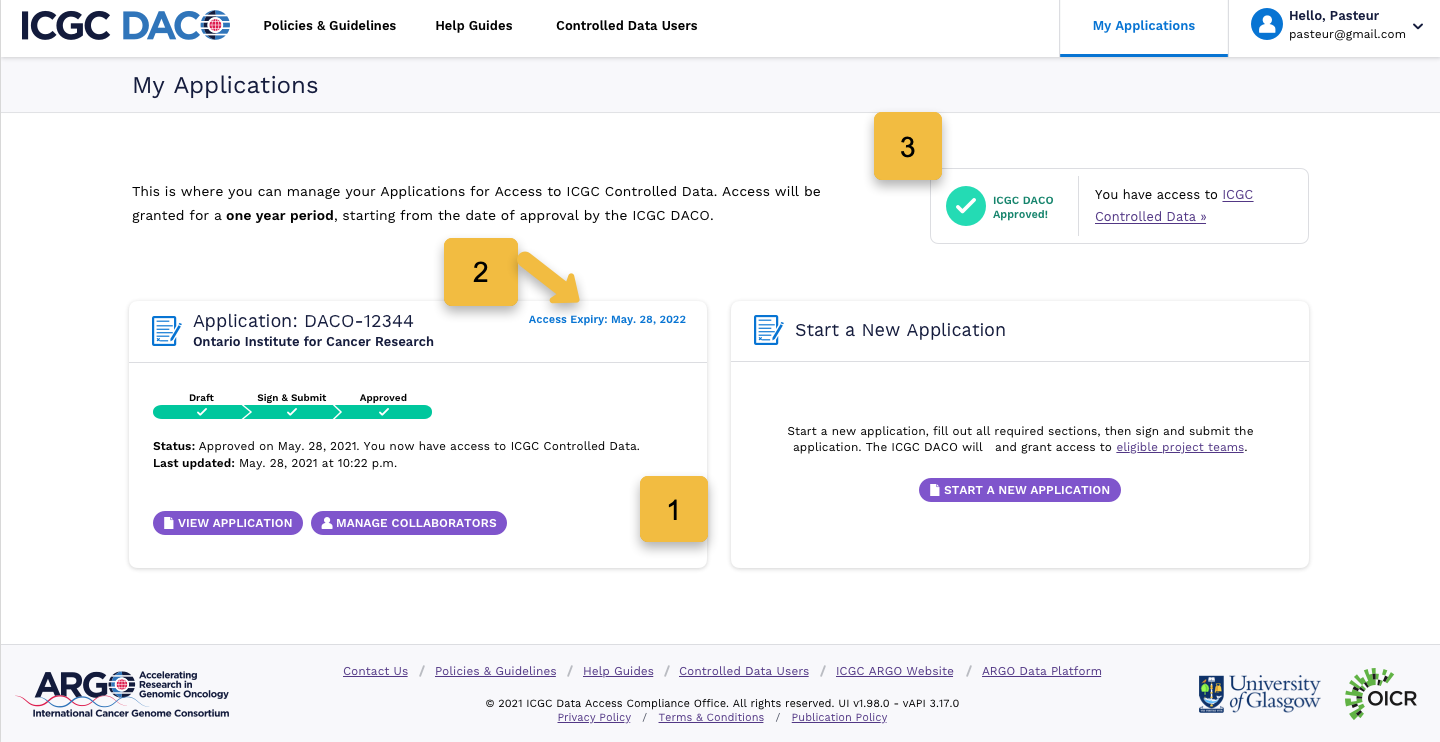
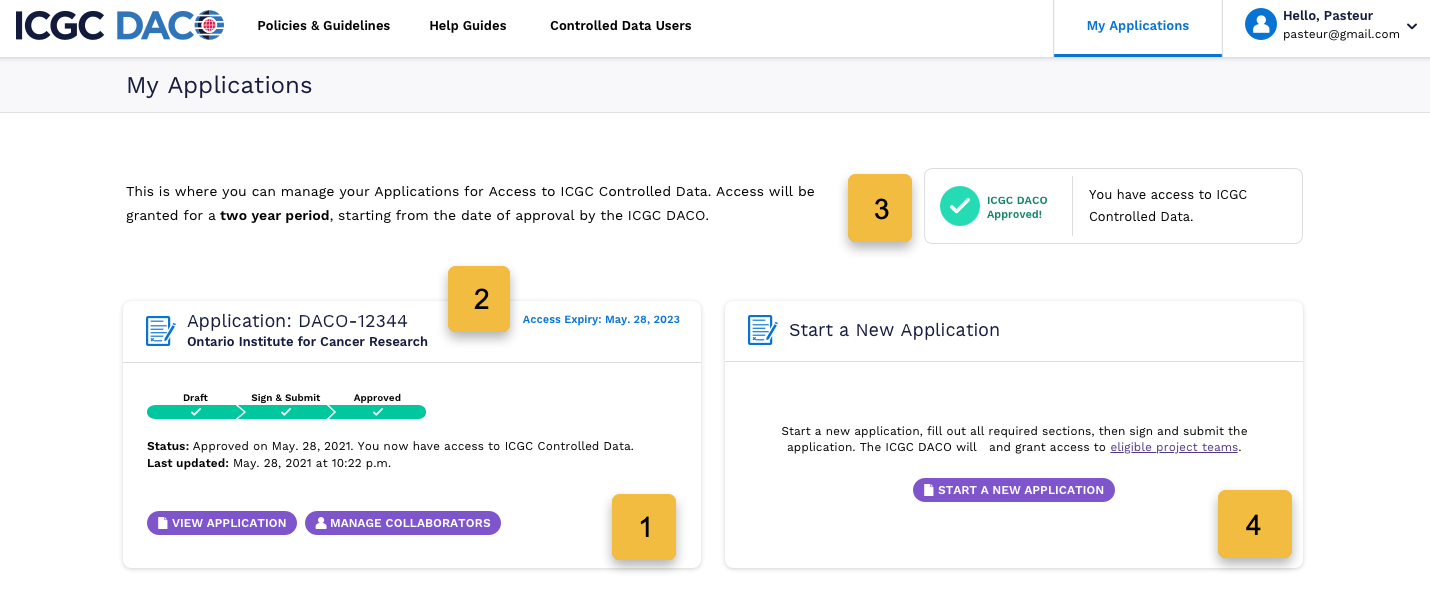
daco-updates-sept10
- wording and screenshot revisions
- added a new page for renewing and closing
- split up the app progress stage table across the multiple pages

diff --git a/website/sidebars.js b/website/sidebars.js
@@ -49,6 +49,7 @@ module.exports = {
           items: [
             'data-access/daco/applying',
             'data-access/daco/approval',
+            'data-access/daco/renew-close',
             'data-access/daco/daco-faq',
           ],
         },

diff --git a/docs/data-access/daco/applying.md b/docs/data-access/daco/applying.md
@@ -10,7 +10,9 @@ The International Cancer Genome Consortium has tiered levels of access to donor 
 
 
 ### Eligible Project Guidelines
-While there is great potential of data sharing for scientific research, caution is required when sharing data about individuals participating in genomic research because genomic data, like other types of medical data, can contain personal and identifying information. Some specific criteria that the ICGC DACO will look for are as follows:
+While there is great potential of data sharing for scientific research, caution is required when sharing data about individuals participating in genomic research because genomic data, like other types of medical data, can contain personal and identifying information.
+
+ICGC DACO provides controlled access to public and private researchers (PIs) that apply for access and the access conditions are the same for both types of researchers.  The application must be completed and submitted through the [online submission system](https://daco.icgc-argo.org). The qualification requirements for applicants are: 
 
 1. **The Applicant** must be an independent researcher affiliated with a legal entity (e.g. university professor, researcher in a private company, independent researchers able to apply for federal research grants, etc.), and they **must review and sign the finalized application**.
 1. A qualified **Institutional Representative** of a legal entity has the administrative power to legally commit that entity to the terms and conditions of the Data Access Agreement (e.g. Vice-President Research, a Research Director, or a Contracts Officer for the entity), and **must review and sign the finalized application**.
@@ -46,19 +48,17 @@ The following are a list of the users involved in an application and their requi
 1. Complete the entire application form, including all required fields.
 ![DACO blank application](/assets/data-access/daco-application.png)
 1. You will notice the application form automatically saves as you fill it in. In the table of contents, icons will indicate which sections haven’t been started (blank), are complete ![DACO icon showing section complete](/assets/data-access/daco-toc-complete.png) or are incomplete ![DACO icon showing section incomplete](/assets/data-access/daco-toc-errors.png).
-1. Above the application form basic information about the application is displayed. This is also where you can access actions, such as downloading a pdf, and a progress bar that indicates what stage your application is in. This progress indicator is also displayed on the dashboard card for each application you have started. [Read more about the progress stages below](/docs/data-access/daco/applying#application-progress-stages).
+1. Above the application form basic information about the application is displayed. This is also where you can access actions, such as downloading a pdf, and a progress bar that indicates what stage your application is in. This progress indicator is also displayed on the dashboard card for each application you have started. [Read more about some of the progress stages below](/docs/data-access/daco/applying#application-progress-stages).
 1. You must have all required sections completed in order to access the final `Sign & Submit` section. 
-1. Once your application form is finalized and signed by both the Applicant (Principal Investigator) and Institutional Representative, you can upload the signed application PDF in the `Sign & Submit` section and click the **Submit Application** button. [Read more about signing and submitting your application below](/docs/data-access/daco/applying#signing-and-submitting-the-application).
+1. Once your application form is finalized and signed by both the Applicant (Principal Investigator) and Institutional Representative, you can upload the signed application pdf in the `Sign & Submit` section and click the **Submit Application** button. [Read more about signing and submitting your application below](/docs/data-access/daco/applying#signing-and-submitting-the-application).
 
-### Application Progress Stages
+### Application Progress Stages when Applying
 
 | Application Stage | Description | Application pdf | 
 | ----------------------- | --------------------------- | --------------------- | 
 | **Draft** | The application is in progress and is incomplete. <br /><br /> ![DACO application in Draft state](/assets/data-access/daco-draft.png)| You can download a **Draft pdf** that will display a watermark if you wish to use it to collaborate with others.<br /><br /> ![Download button for draft pdf](/assets/data-access/download-draft.png) |  
 | **Sign & Submit** | All required sections are completed and the application is ready to be signed by the Principal Investigator and Institutional Representative. <br /><br /> ![DACO application in Sign and Submit state](/assets/data-access/daco-signsubmit.png)| You can now download the **Finalized pdf** from the top button to collect the proper signatures.<br /><br /> ![Download button for finalized pdf](/assets/data-access/download-finalized.png)| 
 | **DACO Review** | Once you upload the signed application and click **Submit Application**, the application will be locked and it will be sent to the ICGC DACO for review. <br /><br /> ![DACO application in DACO Review state](/assets/data-access/daco-review.png) | You can download the signed and submitted pdf using the **Signed pdf** top button. <br /><br />![Download button for signed pdf](/assets/data-access/download-signed.png)| 
-| **Revisions Requested** | If the ICGC DACO office requires revisions to your application before approval, you will receive an email with the details of what to revise and those sections of your application will be unlocked for editing. [Read more](/docs/data-access/daco/approval#requested-revisions).  <br /><br /> ![DACO application in Revisions Requested state](/assets/data-access/daco-revisions-requested.png)| You can download a **Draft pdf** that will display a watermark if you wish to use it to collaborate with others. <br /><br /> ![Download button for draft pdf](/assets/data-access/download-draft.png)| 
-| **Approved** | If the ICGC DACO approves your application, it will be viewable and some sections will remain editable. [Read more](/docs/data-access/daco/approval#approval-for-controlled-data-access).  <br /><br /> ![DACO application in Approved state](/assets/data-access/daco-approved.png)| You will be emailed the ICGC DACO approved copy of the application. <br /><br />  ![Download button for signed pdf](/assets/data-access/download-signed.png)| 
 
 
 ### Applicant Dashboard
@@ -69,6 +69,7 @@ When applications are in progress, the Applicant dashboard will show the followi
 1. A card will show up on your dashboard tracking each application you have opened, what stage they are in, and provides quick links for editing. 
 1. Once an application is approved, the card will show the access expiry date and will eventually alert you when it’s almost time for renewal. 
 1. A smaller card in the top right of the dashboard will indicate if the logged in user has been approved for access to ICGC Controlled Data.  
+1. You will always be able to start a new application, in case you are managing multiple projects.
 
 
 The following outlines a bit more information about some specific application sections:
@@ -92,12 +93,12 @@ If your country/region requires an ethics approval, it is required that you prov
 
 If the ethics approval is written in a language other than English, please upload a translated version.
 
-> Please note: The DACO and the ICGC are not responsible for the ethics approval/monitoring of individual research projects and bear no responsibility for the Applicant's failure to comply with local/national ethical requirements.
+> **Please note:** The DACO and the ICGC are not responsible for the ethics approval/monitoring of individual research projects and bear no responsibility for the Applicant's failure to comply with local/national ethical requirements.
 
 ## Signing and Submitting the Application
 The last section of the application, `Sign & Submit`, will be disabled if any section of the application is incomplete. 
 
-When this section is enabled, the final step involves adding the proper signatures to authorize the application. Please do the following:
+When the application is complete, this section is enabled and the final step involves adding the proper signatures to authorize the application. Please do the following:
 1. Download the finalized application from the top application header, or using the button within the section content. 
 1. On the last page of the application pdf you will find a signatures page. You must include **BOTH the Principal Investigator and the Institutional Representative signatures** or your application will be declined.
    * You can print the final signature page, collect the written signatures, scan the signed page and add it back to the finalized application pdf.

diff --git a/docs/data-access/daco/approval.md b/docs/data-access/daco/approval.md
@@ -1,6 +1,6 @@
 ---
 id: approval
-title: ICGC DACO Approval Process
+title: DACO Approval Process
 sidebar_label: Approval Process
 platform_key: DOCS_APPROVAL
 ---
@@ -12,12 +12,20 @@ Once submitted to the ICGC DACO, you will be **notified within 10 business days*
 
 ![DACO Review Process with possible outcomes](/assets/data-access/daco-approval-diagram.png)
 
+### Application Progress Stages after DACO Review
+
+| Application Stage | Description | Application pdf | 
+| ----------------------- | --------------------------- | --------------------- | 
+| **Revisions Requested** | If the ICGC DACO office requires revisions to your application before approval, the revision details will be sent via email, and specific sections of your application will be unlocked for editing.  <br /><br /> ![DACO application in Revisions Requested state](/assets/data-access/daco-revisions-requested.png)| You can download a **Draft pdf** that will display a watermark if you wish to use it to collaborate with others. <br /><br /> ![Download button for draft pdf](/assets/data-access/download-draft.png)| 
+| **Approved** | If the ICGC DACO approves your application, it will be viewable and some sections will remain editable, such as Collaborators.  <br /><br /> ![DACO application in Approved state](/assets/data-access/daco-approved.png)| A copy of the application, signed by the Data Access Officer, will be available within 5 business days of approval. Download the document for your records using the **Approved pdf** top button. <br /><br />  ![Download button for approved pdf](/assets/data-access/download-approved.png)| 
+| **Rejected** | If the ICGC DACO rejects your application, the reasons will be sent via email, and your application will be view-only. <br /><br /> ![DACO application in Rejected state](/assets/data-access/daco-rejected.png)| You can download the signed and submitted pdf using the **Signed pdf** top button. <br /><br />![Download button for signed pdf](/assets/data-access/download-signed.png)| 
+
 ## Revisions Requested
-If the ICGC DACO requires specific criteria to be met before being able to approve the application, they will request revisions from the project team.If this is the case, you will receive an email outlining the sections that require revisions along with specific details that need to be provided.
+If the ICGC DACO requires specific criteria to be met before being able to approve the application, they will request revisions from the project team. If this is the case, you will receive an email outlining the sections that require revisions along with specific details that need to be provided.
 
-At this time, the application submitter can log in to [daco.icgc-argo.org](https://daco.icgc-argo.org) and access their application that is in the `Revisions Requested` state. The sections that need revising will be unlocked and will show an **orange pencil** icon in the table of contents. The `Sign & Submit` section will be enabled once corrections have been made to those sections. Once corrected, please upload the revised and signed application and resubmit.  
+At this time, you can log in to [daco.icgc-argo.org](https://daco.icgc-argo.org) and access the application that is in the `Revisions Requested` state. The sections that need revising will be unlocked and will show an **orange pencil** icon in the table of contents. The `Sign & Submit` section will be enabled once corrections have been made to those sections. Once corrected, please upload the revised and signed application and resubmit.  
 
-![DACO application showing requested revisions state](/assets/data-access/daco-requested-revisions.png)
+![DACO application showing requested revisions state](/assets/data-access/daco-revisions-application.png)
 
 ## Approval for Controlled Data Access
 If the ICGC DACO approves your application, access to ICGC Controlled Data will be granted for a **two year period** starting from the date of approval for access. **Note, it may take up to 24 hours for authorization to take effect.** 
@@ -28,7 +36,7 @@ The Applicant/PI and all Collaborators will receive an email notifying them that
 
 **Next Steps:**
 
-A copy of the application signed by the Data Access Officer will be sent to the Applicant.
+A copy of the application, signed by the Data Access Officer, will be available for your records within 5 business days of approval. Download the document using the **Approved PDF** button in the top header of your application.
 
 You can access ICGC Controlled Data in the following data portals:
 - [ICGC ARGO Data Platform](https://platform.icgc-argo.org/) - For more information, consult the [Accessing and Downloading Data documentation](/docs/data-access/data-download)
@@ -40,9 +48,11 @@ You can access ICGC Controlled Data in the following data portals:
 The approved application can be accessed from your applications dashboard with the following sections unlocked, depending on project criteria.
 
 1. `Section C: Collaborators` will always be unlocked for the Applicant to add and remove Collaborators as the project team changes. 
-   * It is important to ensure that all project Collaborators review the Data Access Agreement, and to remove any Collaborator who should no longer have access to ICGC Controlled Data.   
+   * It is important to ensure that all project Collaborators review the Data Access Agreement, and to remove any Collaborator who should no longer have access to ICGC Controlled Data.
+   * When a Collaborator is removed, they will receive an email notifying them that their access to ICGC Controlled Data will be removed within the next 24 hours.   
    * After approval, a Collaborator’s information cannot be edited, you can only add or delete Collaborators from the application.
-   * When a new Collaborator is added to an approved application, the ICGC DACO will be notified and will review accordingly.
+   * When a new Collaborator is added to an approved application, they will receive an email with the data access information, and ICGC DACO will be notified and will review accordingly.
+   
 1. `Section E: Ethics`
    * If you stated that your research project does not require ethics approval, this section will be locked for editing. 
    * If you provided an ethics approval letter, the ethics section will be editable to ensure you can upload a renewed ethics approval letter when required.
@@ -56,3 +66,12 @@ The approved application can be accessed from your applications dashboard with t
 
 If the Applicant is not eligible or if the project raises significant concerns, the application will be rejected with proper justifications sent via email.
 
+## Application History
+
+At any time within an application lifecycle, the user can access the application history via a button at the top of the application. 
+
+![DACO application history button](/assets/data-access/daco-app-history-button.png)
+
+When clicking this button, a modal will appear with a list of when the application moved to different states, if that state was on a new or renewal application, and which user performed the action.
+
+![DACO application history modal](/assets/data-access/daco-app-history-modal.png)

diff --git a/docs/data-access/daco/renew-and-close.md b/docs/data-access/daco/renew-and-close.md
@@ -1,0 +1,48 @@
+---
+id: renew-close
+title: DACO Renewing and Closing
+sidebar_label: Renewing and Closing
+platform_key: DOCS_RENEW_CLOSE
+---
+
+Once approved, access to ICGC Controlled Data will last for 2 years; however, the applicant can easily submit a renewal application to extend the project team’s access for an additional 2 years.
+
+
+### Application Progress Stages for Renewal and Closing
+
+| Application Stage | Description | Application pdf | 
+| ----------------------- | --------------------------- | --------------------- | 
+| **Attestation Required** | The application requires an annual agreement in order to continue with the last year of access. If this is not completed by the annual date, access will be paused until you attest. <br /><br /> ![DACO application requires annual attestation](/assets/data-access/daco-annual-attestation.png)| You can download the DACO signed pdf using the **Approved pdf** top button. <br /><br /> ![Download button for DACO approved pdf](/assets/data-access/download-approved.png) |  
+| **Expired** | Access will expire 2 years after the date of approval. You will have 90 days after the expiry date to renew this application for an additional 2 years of access. <br /><br /> ![DACO application in Expired state](/assets/data-access/daco-expired-renewable.png)| You can download the DACO signed pdf using the **Approved pdf** top button. <br /><br /> ![Download button for DACO approved pdf](/assets/data-access/download-approved.png)| 
+| **Expired Non-renewable** | If you do not renew the application within 90 days after expiry, the application will be closed indefinitely. <br /><br /> ![DACO application in Expired Non-renewable state](/assets/data-access/daco-expired-nonrenewable.png)| You can download the DACO signed pdf using the **Approved pdf** top button. <br /><br /> ![Download button for DACO approved pdf](/assets/data-access/download-approved.png)| 
+| **Renewal Application** | If you choose to renew an application, it will be unlocked for edits and you will be required to agree to the Data Access Agreement and all Appendices again. <br /><br /> ![Renewal DACO application](/assets/data-access/daco-renewal.png)| You can download a **Draft pdf** that will display a watermark if you wish to use it to collaborate with others on the renewal application.<br /><br /> ![Download button for draft pdf](/assets/data-access/download-draft.png)| 
+| **Closed** | An application can be closed before being submitted or after being approved. If an application is closed after approval but before the expiry date, the project team will lose access and the application will be view-only. <br /><br /> ![DACO application in Closed state](/assets/data-access/daco-closed.png) | If the application is approved and then closed, you can still download the DACO signed pdf using the **Approved pdf** top button. <br /><br />![Download button for DACO approved pdf](/assets/data-access/download-approved.png)| 
+
+
+## Annual Attestation
+
+
+## Renewing an Application 
+The DACO approval expires after 2 years of access. An email will be sent to the applicant 45 days before the access expiry date as well as on the date of expiry. If the project team is to remain active, the applicant may wish to renew beyond the 2 years. The option to renew the application will be available 45 days before the application expires, and 90 days after it expires. 
+
+### How to Renew an Application
+
+1. When the applicant receives the email reminder that the application is about to expire (or has expired), they can log in and click the **Renew** button.
+![DACO renew button for an expired application](/assets/data-access/daco-renew-button.png)
+1. At this time, the application will be unlocked and they can make any changes (if necessary) to their currently approved application, agree to the Data Access Agreement and Appendices again, and re-sign and submit the renewal application.
+![DACO renewal application](/assets/data-access/daco-renewal-application.png)
+1. The DACO Administrator will be notified that a renewal application is ready for review. If there are no issues and/or the application remains the same as the previous version, the project team should be quickly approved for an additional two years. 
+
+### Expired and Non-renewable
+
+A signed copy of the renewal application must be sent to the ICGC DACO via the online application system. If a renewal is not received within 90 days of the application's expiry date, it will be considered closed indefinitely. 
+![DACO renewal period is up so application is non-renewable](/assets/data-access/daco-renewal-is-up.png)
+
+## Closing an Application
+
+1. The application can also be closed by the Applicant or by a DACO Administrator at any time within the lifecycle of the application (before or after approval). A **Close Application** button is available from within the application header bar. 
+![DACO close an application button](/assets/data-access/daco-close-button.png)
+1. When clicking this button, the user will be asked to confirm this action, as it cannot be undone. If the application is being closed after it has been approved, the confirmation modal will display a warning notifying the user that this action will remove access for the project team.
+![DACO close confirmation modal with warning](/assets/data-access/daco-close-modal.png)
+1. Once confirming this action, the application will be closed permanently. The expiry date will change to reflect the date that the application was closed. If the applicant wishes to regain access, a new application will have to be submitted for review. 
+1. The applicant and all collaborators will receive an email notifying them that the application has been closed and access to ICGC Controlled Data will be removed within 24 hours.

diff --git a/docs/data-access/daco/daco-faq.md b/docs/data-access/daco/daco-faq.md
@@ -24,7 +24,7 @@ platform_key: DOCS_DACO_FAQ
    * If you already have an ICGC ARGO Platform account, use the same Google or G Suite email address for the ICGC ARGO Platform account and ICGC DACO website.
    * If you do not yet have an ICGC ARGO Platform account, we recommend applying for access using the Google or G Suite email address with which you will access ICGC Controlled Data.
 
-   Once you have completed your application online, obtain the required signatures and submit your application directly through the website. Once the application has been submitted online, the ICGC DACO committee will review your application and you will hear back **within ten business days**.
+   Once you have completed your application online, obtain the required signatures and submit your application directly through the website. Once the application has been submitted, the ICGC DACO committee will review your application and you will hear back **within ten business days**.
 
 
 3. **Who qualifies as an Applicant (Principal Investigator)?**
@@ -66,11 +66,11 @@ platform_key: DOCS_DACO_FAQ
 
    When you have Collaborators listed on your application, you will see them listed within the Section C table.
    * To add a new Collaborator, click the **Add a Collaborator** button above the table and fill out all of the required fields in the form. When you add a Collaborator to an approved application, they will automatically be granted access and will receive an email notification with instructions.
-   * To remove a Collaborator, click the **garbage can** icon associated with that Collaborator and confirm this action. 
+   * To remove a Collaborator, click the **garbage can** icon associated with that Collaborator and confirm this action. When a Collaborator is removed, they will receive an email notifying them that their access to ICGC Controlled Data will be removed within the next 24 hours.
 
 8. **Can I include authorized personnel and students from other institutions?**
 
-   All authorized students and personnel must be employed by your institution, as the institutional representative signs the Data Access Agreement on behalf of all the employees and students of the institution. Should you wish to share the ICGC Controlled Data with an external Collaborator, they must complete a separate Application for Access to ICGC Controlled Data.
+   All authorized students and personnel must be employed by your institution, as the Institutional Representative signs the Data Access Agreement on behalf of all the employees and students of the institution. Should you wish to share the ICGC Controlled Data with an external Collaborator, they must complete a separate Application for Access to ICGC Controlled Data.
 
 9. **How do I submit an access request on a collaborative project?**
 
@@ -134,7 +134,7 @@ platform_key: DOCS_DACO_FAQ
 
 19. **How do I renew the application for an additional year of access?**
 
-   DACO approval will expire after two years of access. You may apply for renewal on the DACO portal up to 45 days before your application expires, and you have 90 days to renew the application after it expires. In order to renew your application, please reopen the application and  make any changes (if necessary) to your currently approved application before re-submitting it online. 
+   DACO approval will expire after two years of access. You may renew your application on the ICGC DACO website up to 45 days before your application expires, and you have 90 days to renew the application after it expires. In order to renew your application, please click the renew button at the top of the application and make any changes (if necessary) to your currently approved application before re-submitting it online. 
 
 20. **Our access to the controlled data has expired after our 2-year approval. Can I still renew it?**
 
